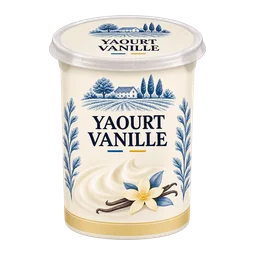
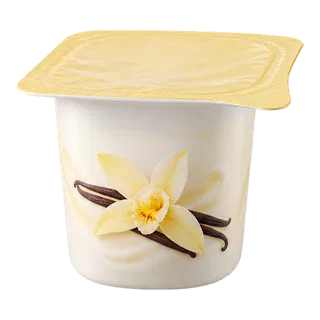
Restore distinct yogurt families using vanilla pot reference (v760)

diff --git a/product-item-images.js b/product-item-images.js
@@ -147,6 +147,8 @@ function loadVisualScaleCache(){
     const changedSince751=!Number.isFinite(cacheVersion)||cacheVersion<751;
     const changedSince752=!Number.isFinite(cacheVersion)||cacheVersion<752;
     const changedSince754=!Number.isFinite(cacheVersion)||cacheVersion<754;
+    const changedSince760=!Number.isFinite(cacheVersion)||cacheVersion<760;
+    const changedImages760=['./www/Items/yaourt.webp','./www/Items/yaourts-fruits.webp','./www/Items/yaourts-vanille.webp'];
     const changedSince759=!Number.isFinite(cacheVersion)||cacheVersion<759;
     const changedImages759=["./www/Items/gnocchis.webp", "./www/Items/gouda.webp", "./www/Items/yaourt.webp", "./www/Items/yaourts-fruits.webp", "./www/Items/yaourts-vanille.webp", "./www/Items/mascarpone.webp"];
     const changedSince758=!Number.isFinite(cacheVersion)||cacheVersion<758;
@@ -182,7 +184,7 @@ function loadVisualScaleCache(){
     // Recalculer seulement les cadrages des visuels remplacés en v732.
     const changedImages732=["./www/Items/glace-vanille.webp","./www/Items/lait-infantile.webp","./www/Items/yaourt-a-boire.webp","./www/Items/ricotta.webp","./www/Items/gouda.webp","./www/Items/gnocchis.webp","./www/Items/feta.webp","./www/Items/burrata.webp","./www/Items/savon-mains.webp"];
     Object.entries(stored.items).forEach(([source,values])=>{
-      if((changedSinceCache&&UPDATED_IMAGE_SOURCES_V722.has(source))||(changedSince724&&changedImages724.includes(source))||(changedSince725&&changedImages725.includes(source))||(changedSince726&&changedImages726.includes(source))||(changedSince729&&changedImages729.includes(source))||(changedSince730&&changedImages730.includes(source))||(changedSince732&&changedImages732.includes(source))||(changedSince733&&changedImages730.includes(source))||(changedSince734&&changedImages734.includes(source))||(changedSince736&&changedImages736.includes(source))||(changedSince738&&changedImages738.includes(source))||(changedSince739&&changedImages739.includes(source))||(changedSince740&&changedImages740.includes(source))||(changedSince741&&changedImages741.includes(source))||(changedSince742&&changedImages742.includes(source))||(changedSince743&&changedImages743.includes(source))||(changedSince744&&changedImages744.includes(source))||(changedSince745&&changedImages745.includes(source))||(changedSince746&&changedImages746.includes(source))||(changedSince747&&changedImages747.includes(source))||(changedSince748&&changedImages748.includes(source))||(changedSince749&&changedImages749.includes(source))||(changedSince750&&changedImages750.includes(source))||(changedSince751&&changedImages751.includes(source))||(changedSince752&&changedImages752.includes(source))||(changedSince754&&changedImages754.includes(source))||(changedSince756&&changedImages756.includes(source))||(changedSince757&&changedImages757.includes(source))||(changedSince758&&changedImages758.includes(source))||(changedSince759&&changedImages759.includes(source)))return;
+      if((changedSinceCache&&UPDATED_IMAGE_SOURCES_V722.has(source))||(changedSince724&&changedImages724.includes(source))||(changedSince725&&changedImages725.includes(source))||(changedSince726&&changedImages726.includes(source))||(changedSince729&&changedImages729.includes(source))||(changedSince730&&changedImages730.includes(source))||(changedSince732&&changedImages732.includes(source))||(changedSince733&&changedImages730.includes(source))||(changedSince734&&changedImages734.includes(source))||(changedSince736&&changedImages736.includes(source))||(changedSince738&&changedImages738.includes(source))||(changedSince739&&changedImages739.includes(source))||(changedSince740&&changedImages740.includes(source))||(changedSince741&&changedImages741.includes(source))||(changedSince742&&changedImages742.includes(source))||(changedSince743&&changedImages743.includes(source))||(changedSince744&&changedImages744.includes(source))||(changedSince745&&changedImages745.includes(source))||(changedSince746&&changedImages746.includes(source))||(changedSince747&&changedImages747.includes(source))||(changedSince748&&changedImages748.includes(source))||(changedSince749&&changedImages749.includes(source))||(changedSince750&&changedImages750.includes(source))||(changedSince751&&changedImages751.includes(source))||(changedSince752&&changedImages752.includes(source))||(changedSince754&&changedImages754.includes(source))||(changedSince756&&changedImages756.includes(source))||(changedSince757&&changedImages757.includes(source))||(changedSince758&&changedImages758.includes(source))||(changedSince759&&changedImages759.includes(source))||(changedSince760&&changedImages760.includes(source)))return;
       if(Array.isArray(values)&&values.length===3&&values.every(Number.isFinite)){
         visualScaleCache.set(source,{scale:values[0],shiftX:values[1],shiftY:values[2]});
       }

diff --git a/sw.js b/sw.js
@@ -1,4 +1,4 @@
-const CACHE='courses-app-v759-r1';
+const CACHE='courses-app-v760-r1';
 const VISUAL_CACHE='courses-visuals-v2';
 const ERROR_INBOX_CACHE='courses-error-inbox-v1';
 const CORE_VISUALS=[
@@ -7,7 +7,7 @@ const CORE_VISUALS=[
   './www/empty-list-premium-v4.webp?v=305',
   './www/list-header-citrons-v552.webp'
 ];
-const SHELL=["./index.html","./marble-ivory-sage-v517.svg","./styles.css?v=755","./product-item-first-paint.css?v=610","./catalog.js?v=759","./preferences-service.js?v=398","./missing-requests-store.js?v=718","./courses-notifications.js?v=482","./bottom-nav-liquid.js?v=573","./app.js?v=718","./settings-tab-badge.js?v=410","./settings-ui.js?v=712","./error-center.js?v=630","./dishes.css?v=675","./catalog-liquid.css?v=675","./dish-detail.css?v=675","./catalog-liquid.js?v=635","./dishes-ui.js?v=717","./catalog-quantities.js?v=737","./repurchase-soon.js?v=701","./dish-local-images.js?v=759","./app-ui.js?v=755","./runtime-features.js?v=759","./missing-products-fixes.js?v=656","./missing-products-popup-ui.js?v=675","./product-item-images.js?v=759","./catalog-product-admin.js?v=712","./purchase-intelligence.js?v=718","./missing-products-dishes.js?v=712","./missing-products-modern.js?v=635","./dish-added-marker.js?v=679","./manifest.webmanifest?v=43","./icon-premium-v40.svg","./icon.svg","./apple-touch-icon.png","./docs/guide-fonctionnement-courses.pdf?v=299"];
+const SHELL=["./index.html","./marble-ivory-sage-v517.svg","./styles.css?v=755","./product-item-first-paint.css?v=610","./catalog.js?v=760","./preferences-service.js?v=398","./missing-requests-store.js?v=718","./courses-notifications.js?v=482","./bottom-nav-liquid.js?v=573","./app.js?v=718","./settings-tab-badge.js?v=410","./settings-ui.js?v=712","./error-center.js?v=630","./dishes.css?v=675","./catalog-liquid.css?v=675","./dish-detail.css?v=675","./catalog-liquid.js?v=635","./dishes-ui.js?v=717","./catalog-quantities.js?v=737","./repurchase-soon.js?v=701","./dish-local-images.js?v=760","./app-ui.js?v=755","./runtime-features.js?v=760","./missing-products-fixes.js?v=656","./missing-products-popup-ui.js?v=675","./product-item-images.js?v=760","./catalog-product-admin.js?v=712","./purchase-intelligence.js?v=718","./missing-products-dishes.js?v=712","./missing-products-modern.js?v=635","./dish-added-marker.js?v=679","./manifest.webmanifest?v=43","./icon-premium-v40.svg","./icon.svg","./apple-touch-icon.png","./docs/guide-fonctionnement-courses.pdf?v=299"];
 const refreshedVisuals=new Set();
 // Fichiers précachés de la version courante (adresses versionnées) : servis depuis le cache, sans attendre le réseau.
 const SHELL_SUFFIXES=SHELL.filter(src=>src!=='./index.html').map(src=>src.slice(1));

diff --git a/index.html b/index.html
@@ -65,7 +65,7 @@
         <div>
           <div class="page-title-row">
             <h1>Ma liste</h1>
-            <span class="page-version">v759</span>
+            <span class="page-version">v760</span>
           </div>
           <p>Votre liste de courses</p>
         </div>
@@ -88,7 +88,7 @@
         <div>
           <div class="page-title-row">
             <h1>Catalogue</h1>
-            <span class="page-version">v759</span>
+            <span class="page-version">v760</span>
           </div>
           <p>Ajouter vos produits</p>
         </div>
@@ -124,7 +124,7 @@
         <div>
           <div class="page-title-row">
             <h1>Réglages</h1>
-            <span class="page-version">v759</span>
+            <span class="page-version">v760</span>
           </div>
           <p id="settingsHeaderStatus" aria-live="polite">Personnalisez votre expérience</p>
         </div>
@@ -440,8 +440,8 @@
   </dialog>
 
   <div id="toast" class="toast" role="status"></div>
-  <script src="./catalog.js?v=759"></script>
-  <script src="./product-item-images.js?v=759" data-product-item-images="1"></script>
+  <script src="./catalog.js?v=760"></script>
+  <script src="./product-item-images.js?v=760" data-product-item-images="1"></script>
   <script src="./preferences-service.js?v=398"></script>
   <script src="./missing-requests-store.js?v=718"></script>
   <script src="./courses-notifications.js?v=482"></script>

diff --git a/catalog.js b/catalog.js
@@ -84,7 +84,7 @@
   const loadDishLocalImages=()=>{
     if(document.querySelector('script[data-dish-local-images]')){onDishLocalImagesReady();return}
     const images=document.createElement('script');
-    images.src='./dish-local-images.js?v=759';
+    images.src='./dish-local-images.js?v=760';
     images.async=false;
     images.dataset.dishLocalImages='script';
     images.addEventListener('load',onDishLocalImagesReady,{once:true});
@@ -180,7 +180,7 @@
       return;
     }
     const script=document.createElement('script');
-    script.src='./runtime-features.js?v=759';
+    script.src='./runtime-features.js?v=760';
     script.async=false;
     script.dataset.runtimeFeatures='script';
     script.addEventListener('load',()=>{

diff --git a/runtime-features.js b/runtime-features.js
@@ -20,7 +20,7 @@ function installMissingProductsFixes(){
 function installProductItemImages(){
   if(document.querySelector('script[data-product-item-images]'))return;
   const script=document.createElement('script');
-  script.src='./product-item-images.js?v=759';
+  script.src='./product-item-images.js?v=760';
   script.defer=true;
   script.dataset.productItemImages='1';
   document.head.appendChild(script);

diff --git a/dish-local-images.js b/dish-local-images.js
@@ -1,7 +1,7 @@
 (() => {
 'use strict';
 
-const APP_VERSION='v759';
+const APP_VERSION='v760';
 window.COURSES_APP_VERSION=APP_VERSION;
 
 let warmQueue=[];

diff --git a/scripts/integrate_product_openai.py b/scripts/integrate_product_openai.py
@@ -228,7 +228,7 @@ def image_prompt(name: str, category: str, subgroup: str, image_hint: str="") ->
         "Pour les sachets de Surgelés, reprendre www/Items/haricots-verts-surgeles.webp : sachet large fermé, bandeau bleu glacier courbe, petit flocon blanc opaque, grande fenêtre transparente et bas bleu ; conserver le contenu exact, avec frites pâles non cuites et épinards en feuilles. Le flocon ne doit pas être transparent. Les glaces Chocolat et Vanille gardent leurs pots fermés distincts ; Nuii reste un bâtonnet entier avec morsure, sans traînées horizontales ni ombre externe. Ne pas transformer les glaces en sachets. "
         "Pour Burrata, Feta et Ricotta, représenter le fromage seul, sans tomates, basilic, olives, huile ni autres garnitures ; conserver forme et texture naturelles distinctes. Pour Gouda, préserver pâte jaune, cire rouge et cubes, retirer toute ombre de sol externe et cadrer sur l’objet visible pour éviter un fromage trop petit à cause des marges invisibles. Préserver les autres fromages déjà validés, sans imposer un emballage unique ni effacer les croûtes blanches naturelles. "
         "Pour Mascarpone, représenter un pot laitier bas et large fermé avec rebord et languette, étiquette et couvercle identifiés MASCARPONE, décor laitier crème/bleu et volute de crème imprimée ; pas de boîte blanche anonyme, crème exposée, bol de service, bocal de sauce, marque, chiffre ou allégation inventée. "
-        "Yaourt, Yaourts fruits et Yaourts vanille reprennent le pot haut crème, couvercle rond et décor bleu de www/Items/yaourts-nature.webp, mêmes proportions et taille apparente après cadrage. Fruits ne doit pas être un gros pot rose ; accent inférieur bleu/rose/crème doré et illustration de parfum imprimée seulement. Seuls les noms YAOURT, YAOURT FRUITS, YAOURT VANILLE sont autorisés, sans marque, pourcentage ou allégation inventée. Nature, Grecs, Skyr et Fromage blanc restent conservés. "
+        "Deux familles de yaourts distinctes : Nature, Grecs et Skyr conservent leurs pots crème/bleu à couvercle rond. Yaourt, Yaourts fruits et Yaourts vanille reprennent le petit pot blanc légèrement évasé à opercule souple carré fermé de www/Items/yaourts-vanille.webp v760 (référence v758 restaurée), mêmes proportions et taille apparente. Yaourt générique : blanc et vague bleu pâle, opercule argent ; Fruits : rose pâle et fraise imprimée ; Vanille : crème doré et fleur/gousse imprimées. Pour ces trois pots, aucun décor botanique bleu, couvercle rond rigide, texte, marque ou fruit physique. Cette règle remplace celle de v759 ; Fromage blanc et les autres desserts restent inchangés. "
         "Pour Riz au lait, conserver un petit pot en verre fermé et du riz crémeux visible, sans cannelle, caramel ou garniture non précisée. Pour Yaourt à boire, conserver une bouteille laitière fermée à bouchon rose, avec fraise illustrée seulement sur la bouteille, aucun fruit physique autour ni ombre de sol. Préserver les pots de yaourts/desserts déjà validés ; ne pas leur appliquer le modèle Mayonnaise. "
         "Pour les charcuteries, Blanc de poulet représente des tranches cuites ivoire à bord doré, sans persil ni autre garniture, jamais du poulet cru ou du jambon de porc. Rosette : un saucisson sec à coupe rosée et gros grains de gras blanc, quelques tranches et marge complète ; conserver la fleur naturelle du boyau. Pâté reprend le petit bocal fermé à couvercle doré de www/Items/rillettes.webp, sans étiquette inventée, mais avec une texture dense finement hachée distincte des rillettes fibreuses. Préserver les présentations propres de Coppa, Mortadelle, Lardons et Peperroni, sans imposer le modèle Mayonnaise aux terrines. "
         "Pour Vinaigre de vin, reprendre la bouteille élancée de www/Items/vinaigre-de-cidre.webp et le style de www/Items/vinaigre-balsamique.webp : col étroit, épaules arrondies, bouchon vissé doré, étiquette crème centrale à filet olive doré et illustration de raisin sans texte ni marque. Liquide transparent grenat/brun rouge, distinct du balsamique presque noir et du cidre ambré. Jamais une carafe à bouchon de verre ou une bouteille rognée. Les huiles gardent leurs flacons à anse et bouchon vert existants ; ne pas les transformer en pots à sauce, ni appliquer cette règle aux vinaigres ménagers ou jus. "

diff --git a/docs/AUDIT_IMAGES_PRODUITS_2026-11-04.md b/docs/AUDIT_IMAGES_PRODUITS_2026-11-04.md
@@ -396,3 +396,21 @@ Cinq éditions/générations avec l’outil image intégré, un recadrage/redime
 Les six fichiers finaux respectent 15 000 octets, avec transparence réelle et marges. Les images encodées sont comparées sur fonds clair/foncé à 160 et 48 px avec le zoom et le décalage calculés selon le code réel ; comparaison avec Nature, Grecs, Skyr, Brie et Conchiglie. Mesures d’échelle anciennes/nouvelles vérifiées, aucun rognage dans les boîtes Ma liste/Catalogue. Migration v758/v759 vérifiée pour les six cadrages, autres produits conservés. Aucun essai interactif iPhone ou Home Assistant réel.
 
 Validation : 349/349 tests, syntaxe JavaScript, compilation Python et `git diff --check` réussis. Validateur Bash inchangé ; mêmes contrôles exécutés séparément faute de `/dev/fd/63`. Noms/groupes du catalogue, fallback SVG, logique réseau du service worker, cache persistant, badge court, HA et sécurité inchangés ; aucune nouvelle liste de visuels dans sw.js. La catégorie Conserves reste en attente après cette reprise Frais.
+
+## Séparation des deux familles de yaourts — v760
+
+Source relue : main `2361d2f4c9711088c1d0d1b17f330d4e93469e67` (v759). Clarification utilisateur : Nature, Grecs et Skyr gardent le modèle crème/bleu ; les autres yaourts doivent suivre l’ancien Vanille. La généralisation v759 du décor bleu à Yaourt, Fruits et Vanille est donc annulée.
+
+Référence exacte : `yaourts-vanille.webp` du commit v758 `39407f9a3be2d44e1a5091c3a4cd920a34aa8dd0`, restauré sans modification d’octets. Petit pot individuel blanc légèrement évasé avec opercule souple carré fermé, crème doré et fleur/gousse de vanille imprimées. Deux variantes générées avec l’outil image intégré : Yaourt blanc, opercule argent et vague bleu pâle sans parfum ; Fruits rose pâle avec fraise imprimée. Aucun texte, couvercle rond rigide ou décor botanique bleu dans ces trois pots.
+
+| Fichier dans `www/Items/` | Final (octets) | Action |
+| --- | ---: | --- |
+| `yaourt.webp` | 14 216 | Pot avec opercule assorti à Vanille |
+| `yaourts-fruits.webp` | 12 558 | Pot avec opercule et fraise imprimée |
+| `yaourts-vanille.webp` | 13 510 | Restauration exacte du Vanille v758 |
+
+Les trois fichiers sont sous 15 000 octets, transparents et lisibles. Comparaison visuelle sur fonds clair/foncé à 160 et 48 px avec le cadrage automatique : hauteur et largeur de Yaourt et Fruits à moins de 0,025 de celles de Vanille dans la boîte image. Pas de rognage dans les boîtes Ma liste/Catalogue. Nature, Grecs, Skyr, Fromage blanc, Gouda, Gnocchis et Mascarpone vérifiés identiques octet par octet à main v759.
+
+Consigne et prompt automatique remplacés pour conserver cette séparation des familles. Noms/groupes du catalogue, fallback SVG, cache visuel persistant, badge court, logique réseau du service worker, HA, sécurité et mode test inchangés. Migration v759/v760 vérifiée pour les trois cadrages seulement. Aucun essai interactif iPhone ou Home Assistant réel.
+
+Validation : 349/349 tests, syntaxe JavaScript, compilation Python et `git diff --check` réussis. Validateur Bash inchangé ; mêmes contrôles exécutés séparément faute de `/dev/fd/63`. Conserves reste en attente.

diff --git a/docs/IMAGES_ITEMS.md b/docs/IMAGES_ITEMS.md
@@ -85,7 +85,7 @@ Revoir ensemble les douze produits de Boulangerie de catalog.js, en conservant l
 
 ## Conditionnement fidèle — yaourts et desserts
 
-Correction utilisateur v759 : Yaourt, Yaourts fruits et Yaourts vanille reprennent le pot haut crème à couvercle rond de `yaourts-nature.webp`, son décor bleu et ses proportions. Même taille apparente après cadrage automatique ; Fruits ne doit pas être un gros pot rose. Différencier par un accent inférieur discret (bleu, rose, crème doré) et une illustration du parfum imprimée sur l’étiquette, jamais un fruit physique. Les seules désignations YAOURT, YAOURT FRUITS et YAOURT VANILLE sont autorisées pour assortir les étiquettes existantes ; aucune marque, pourcentage ou allégation inventée. Nature, Grecs, Skyr et Fromage blanc déjà validés sont conservés.
+Correction utilisateur v760 : deux familles distinctes. Yaourts nature, Yaourts grecs et Skyr gardent leur modèle crème/bleu à couvercle rond ; ne pas l’étendre aux autres yaourts. Yaourt, Yaourts fruits et Yaourts vanille reprennent le petit pot individuel blanc légèrement évasé, à opercule souple carré à coins arrondis fermé, de `yaourts-vanille.webp` avant v759 (référence v758 restaurée en v760). Même silhouette, angle et taille apparente après cadrage automatique. Yaourt générique : blanc, opercule argent clair et vague bleu pâle discrète, sans parfum. Fruits : rose pâle et fraise imprimée. Vanille : crème doré et fleur/gousse imprimées. Aucun fruit physique, décor botanique bleu, couvercle rond rigide, texte ou marque pour ces trois pots. Cette séparation remplace la consigne v759. Fromage blanc et les autres desserts restent inchangés.
 
 Préserver les pots déjà validés et les différences de conditionnement. Riz au lait : petit pot en verre fermé, riz crémeux visible, sans garniture ou parfum non précisé au catalogue. Yaourt à boire : bouteille laitière fermée à bouchon rose ; la fraise peut être illustrée sur la bouteille, mais pas posée physiquement à côté, et aucune ombre de sol ne doit former de halo. Ne pas appliquer le pot Mayonnaise aux desserts, ni uniformiser tous les yaourts sur un même pot au détriment des références approuvées.
 
